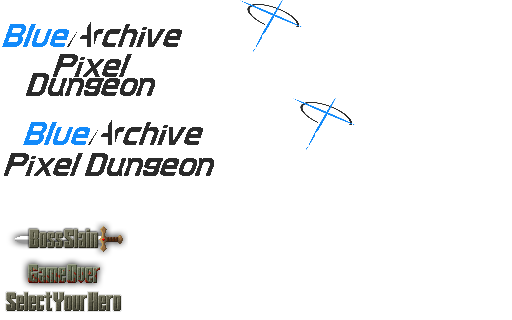
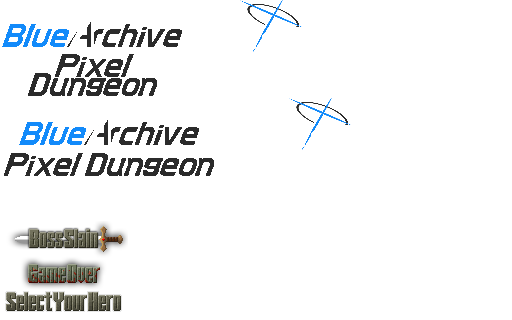
타이틀 화면 수정

Changed region(s): [[0.0312, 0.375, 0.4062, 0.4688], [0.0312, 0.1562, 0.3125, 0.3125], [0.5625, 0.3125, 0.6875, 0.4688]]

diff --git a/core/src/main/java/com/shatteredpixel/shatteredpixeldungeon/scenes/WelcomeScene.java b/core/src/main/java/com/shatteredpixel/shatteredpixeldungeon/scenes/WelcomeScene.java
@@ -113,11 +113,11 @@ public class WelcomeScene extends PixelScene {
 		align(title);
 
 		if (landscape()){
-			placeTorch(title.x + 30, title.y + 35);
-			placeTorch(title.x + title.width - 30, title.y + 35);
+			placeTorch(title.x + 0, title.y + 60);
+			placeTorch(title.x + title.width - 0, title.y + 60);
 		} else {
-			placeTorch(title.x + 16, title.y + 70);
-			placeTorch(title.x + title.width - 16, title.y + 70);
+			placeTorch(title.x + 16, title.y + 90);
+			placeTorch(title.x + title.width - 16, title.y + 90);
 		}
 
 		Image signs = new Image(BannerSprites.get( landscape() ? BannerSprites.Type.TITLE_GLOW_LAND : BannerSprites.Type.TITLE_GLOW_PORT)){

diff --git a/core/src/main/java/com/shatteredpixel/shatteredpixeldungeon/scenes/TitleScene.java b/core/src/main/java/com/shatteredpixel/shatteredpixeldungeon/scenes/TitleScene.java
@@ -87,11 +87,11 @@ public class TitleScene extends PixelScene {
 		align(title);
 
 		if (landscape()){
-			placeTorch(title.x + 30, title.y + 35);
-			placeTorch(title.x + title.width - 30, title.y + 35);
+			placeTorch(title.x + 0, title.y + 60);
+			placeTorch(title.x + title.width - 0, title.y + 60);
 		} else {
-			placeTorch(title.x + 16, title.y + 70);
-			placeTorch(title.x + title.width - 16, title.y + 70);
+			placeTorch(title.x + 16, title.y + 90);
+			placeTorch(title.x + title.width - 16, title.y + 90);
 		}
 
 		Image signs = new Image(BannerSprites.get( landscape() ? BannerSprites.Type.TITLE_GLOW_LAND : BannerSprites.Type.TITLE_GLOW_PORT)){
